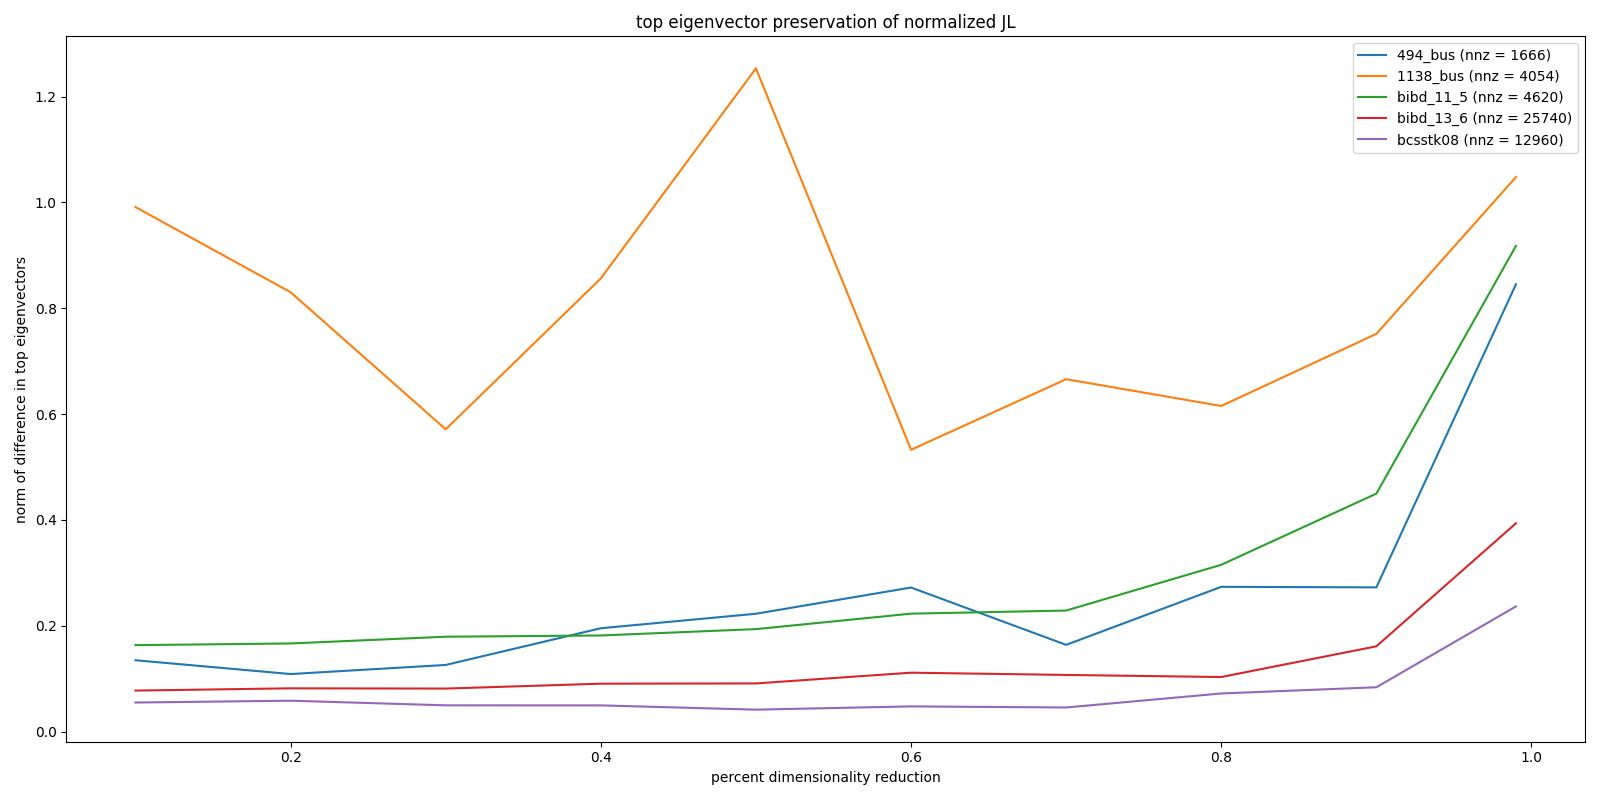
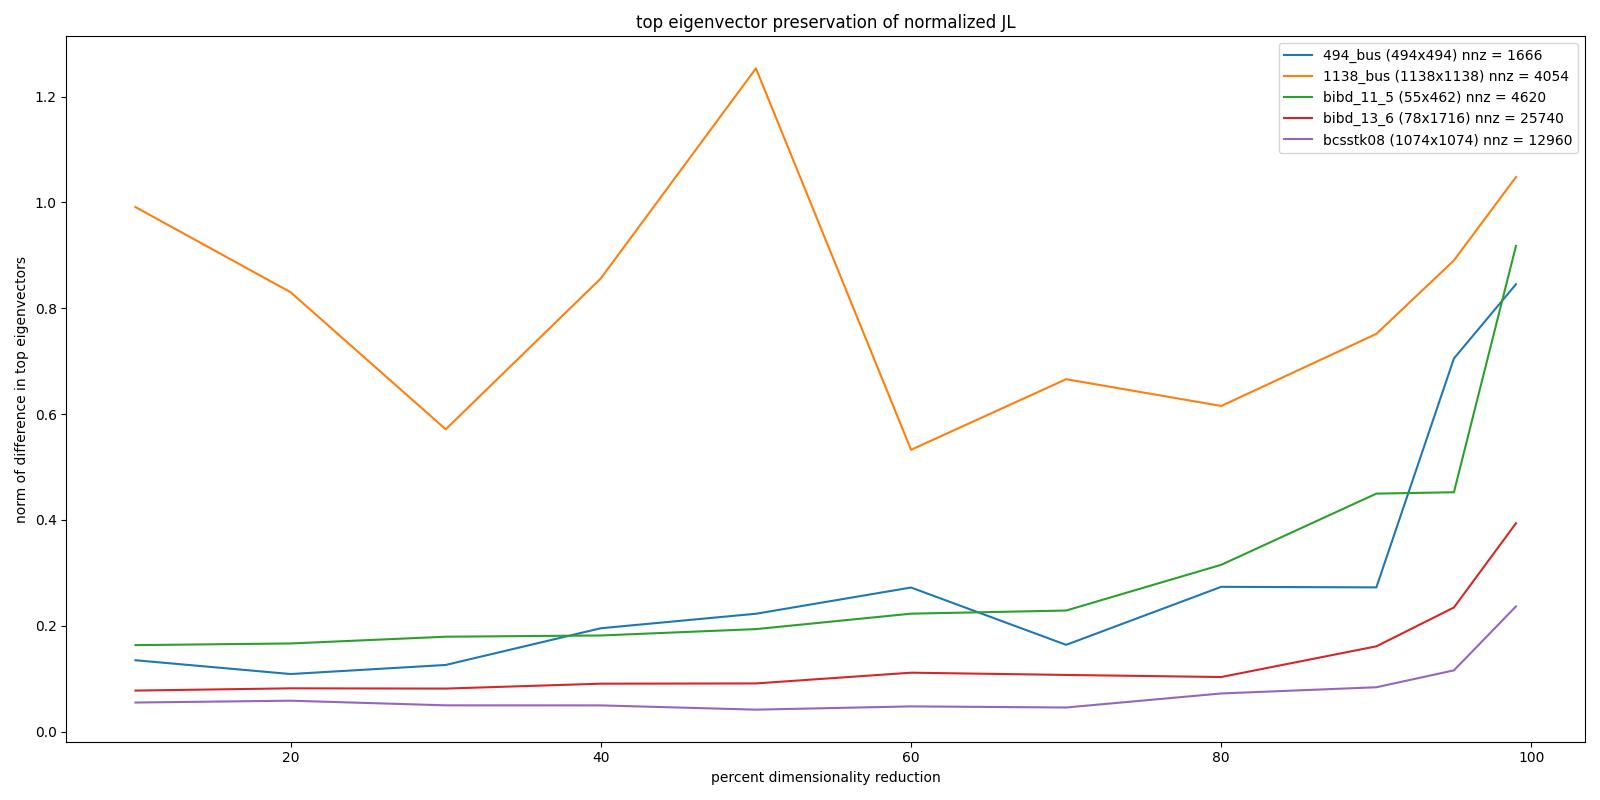
no runnable folder, these can live in the root

diff --git a/src/eig_pres.py b/src/eig_pres.py
@@ -1,10 +1,10 @@
 """
-Joel's main
+for testing eigenvector preservation
 """
 
 from Sparsification_Research.src.SSGetter import SSGetter
 from Sparsification_Research.src.Plotter import Plotter
-from ..tests.eig_tests import *
+from .tests.eig_tests import *
 
 import numpy as np
 
@@ -35,7 +35,7 @@ def test(funct, plotter, mats, seed, num_avg, input):
 
         ys = ys / num_avg
 
-        plotter.add_to_plot(xs, ys, label=f"{name} (nnz = {A.nnz})")
+        plotter.add_to_plot(xs, ys, label=f"{name} ({A.shape[0]}x{A.shape[1]}) nnz = {A.nnz}")
     print("Finished test")
     plotter.finish()
 
@@ -131,7 +131,7 @@ def run_scikit_eig_percent_reduce(plotter, mats, seed, num_avg):
                       save_name="scikit_eig_percent_reduce")
     function = scikit_eig_percent_reduce
 
-    ps = [0.1, 0.2, 0.3, 0.4, 0.5, 0.6, 0.7, 0.8, 0.9, 0.99]
+    ps = [10, 20, 30, 40, 50, 60, 70, 80, 90, 95, 99]
 
     test(funct=function, 
          plotter=plotter,

diff --git a/src/tests/eig_tests.py b/src/tests/eig_tests.py
@@ -46,7 +46,7 @@ def scikit_eig_percent_reduce(A, ps, seed):
 
     for i, p in enumerate(ps):
         n = A.shape[1]
-        reduce_ammount = ceil(n * p)
+        reduce_ammount = ceil(n * p * 0.01)
         d = n - reduce_ammount
         if (d <= 1):
             print(f"WARNING: reduced dimension {d} is too small, defaulting to 2")
